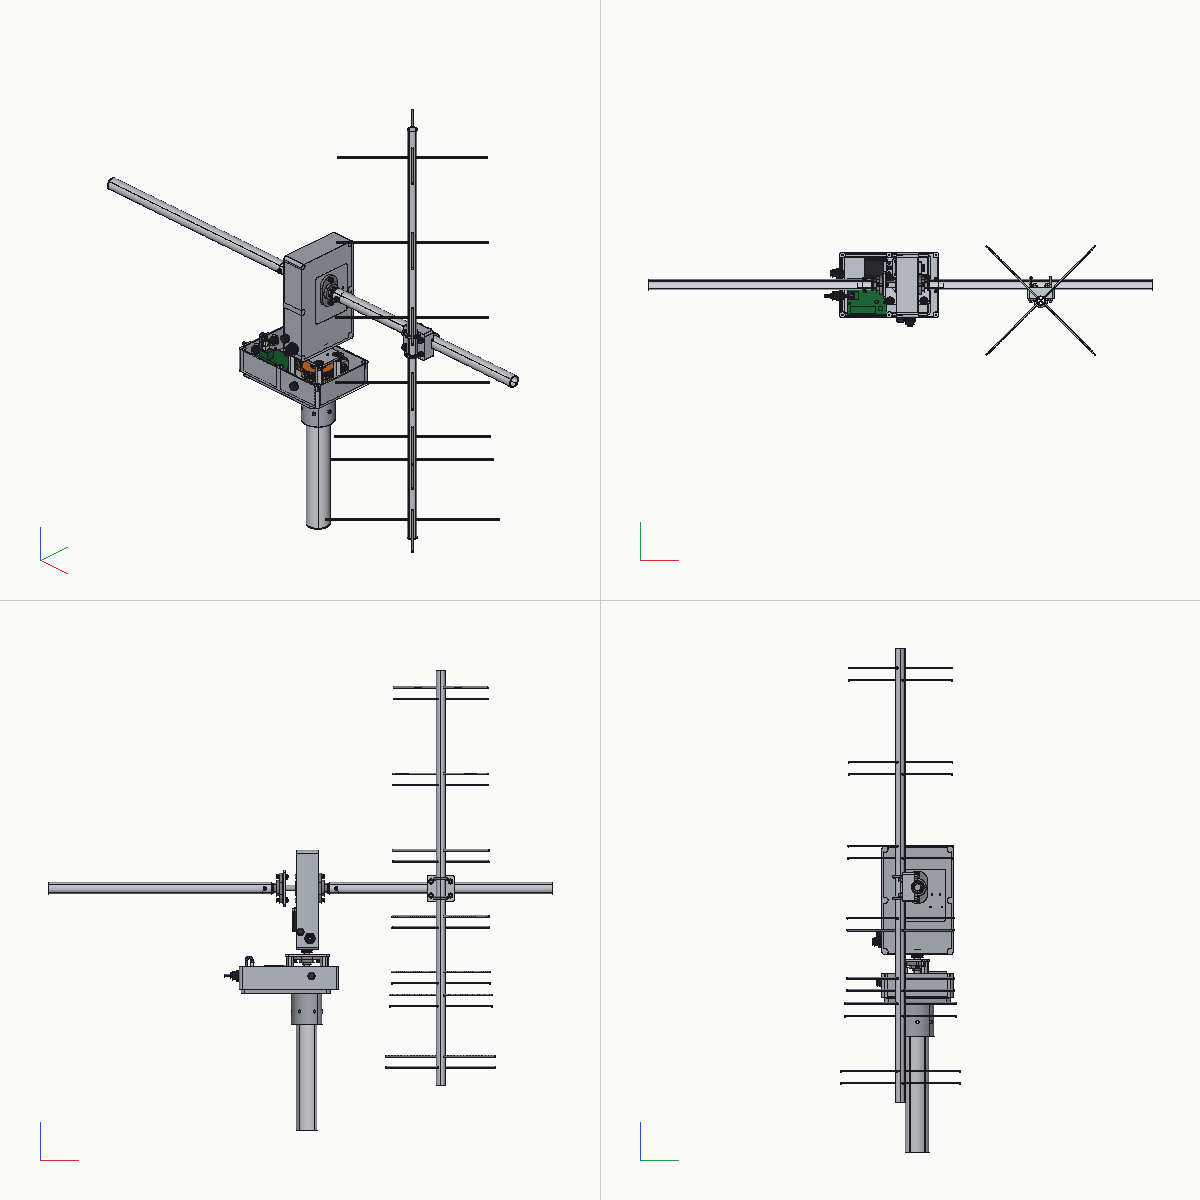
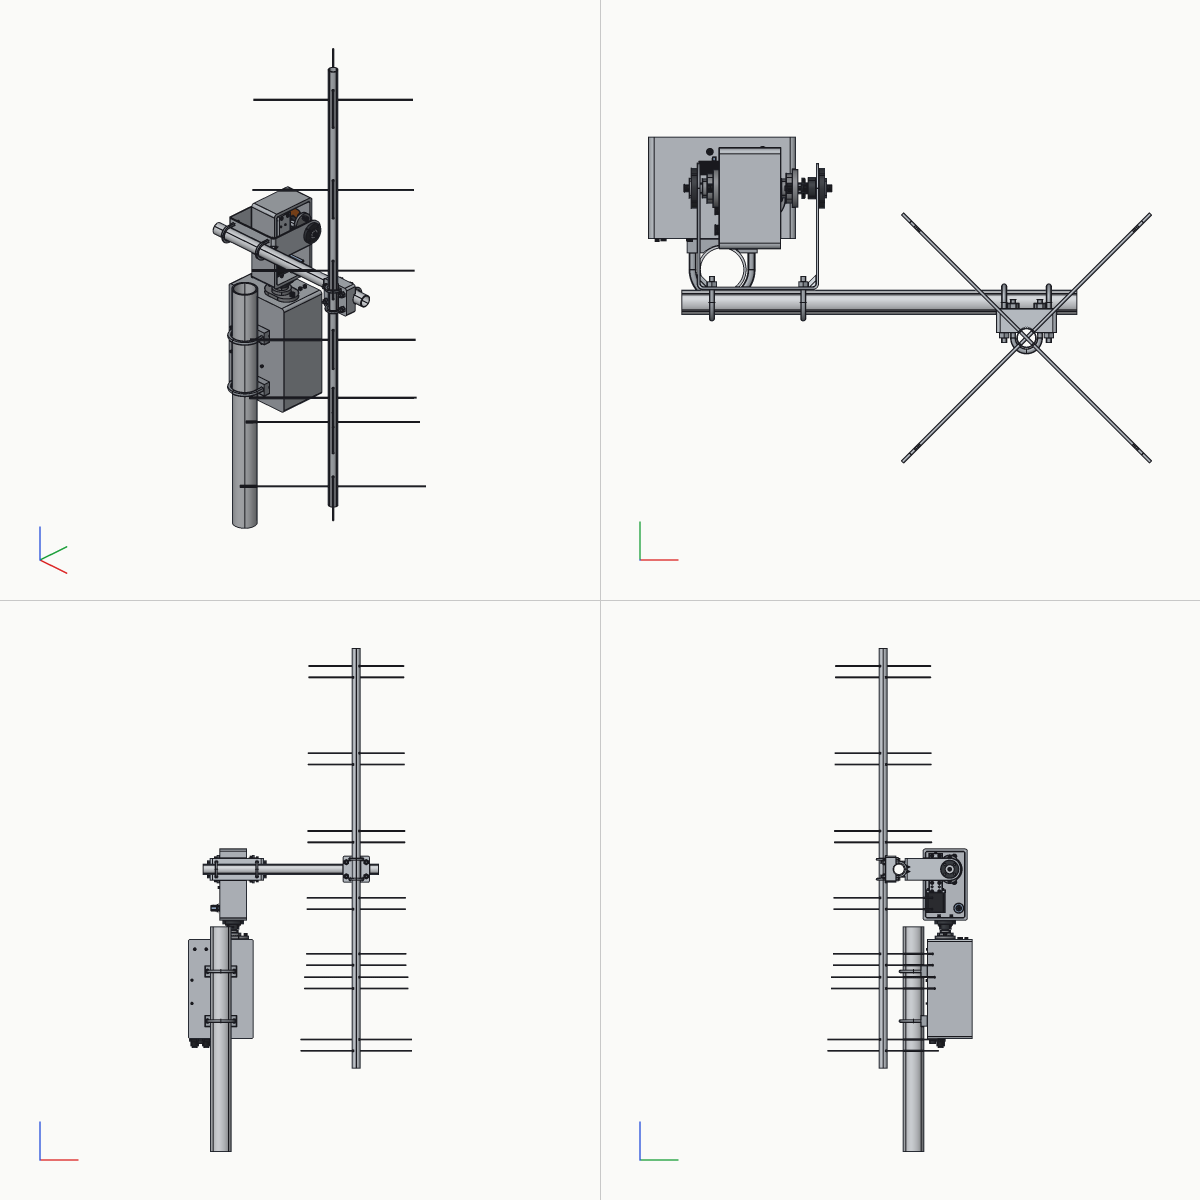
N-type bulkhead low on the el box floor

diff --git a/README.md b/README.md
@@ -116,13 +116,9 @@ The boxes seal on their own gaskets. Every fixing through a box wall is an O-rin
 screw or has a sealing washer. The az spindle leaves the top wall through the two KFL003s,
 whose insert seals and flanges close the hole, under the collar's rain shield; the el shaft leaves the floor through the outside KFL001's insert seal on an EPDM gasket,
 and the lid through a V-ring. Cables crossing the az joint run inside the
-hollow spindle; the coax leaves the el box through a gland in its top wall with a slack loop
-to the yagi. A printed guide tube (`parts/cable_guide.gcad`) sweeps in one smooth run from under
-that gland down the lid side of the el box, under the motor and into the floor hole, so a cable
-pushed in through the top gland comes out of the spindle in the az box without opening either
-box; a Ø48 flange on its floor end is held on the bottom wall by the same four screws as the
-collar, and the el motor and encoder wires drop into a slot in its run. The two PoE cables (board and Pi) use the glands in the az box's bottom wall,
-beside the M12 breather vent.
+hollow spindle; the SDR coax leaves the el box through a permanent N-type bulkhead
+low on its floor, under the yoke arm, and runs straight down to the az box. The two PoE cables
+(board and Pi) use the glands in the az box's bottom wall, beside the M12 breather vent.
 
 ## Strength
 

diff --git a/QUOTE.md b/QUOTE.md
@@ -43,7 +43,6 @@ in its trough ends.
 | `az_gearcover_low`, `az_gearcover_high` | 1 each |
 | `el_gearcover_low`, `el_gearcover_high` | 1 each |
 | `accessory_bracket` (optional, Pi and SDR), printed lying on its back wall; four M2.5 heat-set inserts in the bosses | 1 |
-| `cable_guide`, printed standing on its Ø48 flange with tree supports under the run, so the tube's end clears the bed; the flange bolts to the box's bottom wall on the collar's four screws | 1 |
 
 ## Drilled enclosures
 
@@ -53,9 +52,8 @@ gasket and lid screws. The `*_1550*` STEP files show where to drill:
 - az box, bottom wall: 2x Ø16.2 (glands), M12x1.5 (vent)
 - az box, top wall: Ø21 (spindle), 2x Ø6.5 (KFL003 pair), 4x Ø4.5 (az drive hangers)
 - az box, back wall: 4x Ø9 (mast U-bolts), 4x Ø3.4 (board standoffs), 2x Ø3.4 (battery holder)
-- el box, floor: Ø16 + 2x Ø6.5 (KFL001), 4x Ø4.5 (el drive)
-- el box, bottom end wall: 4x Ø4.5 on 38 PCD (collar and the cable guide flange), Ø14 (cables from the spindle)
-- el box, top end wall: Ø16.2 (coax gland)
+- el box, floor: Ø16 + 2x Ø6.5 (KFL001), 4x Ø4.5 (el drive), Ø16 low on the lid side (N-type bulkhead)
+- el box, bottom end wall: 4x Ø4.5 on 38 PCD (collar), Ø14 (cables from the spindle)
 - el lid: Ø16 + 2x Ø6.5 (KFL001, mounted inside)
 
 ## Bought
